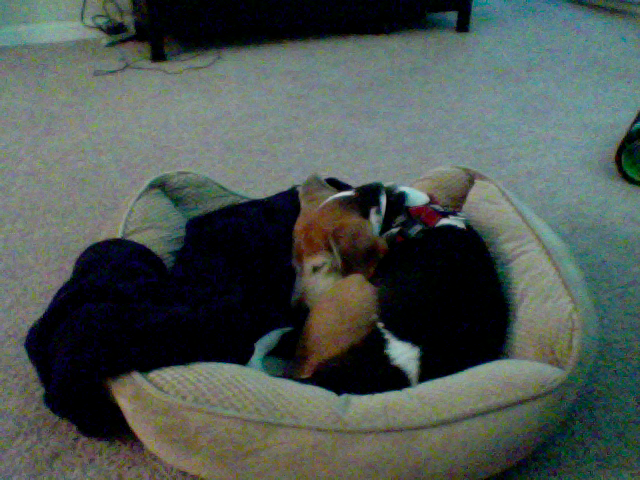
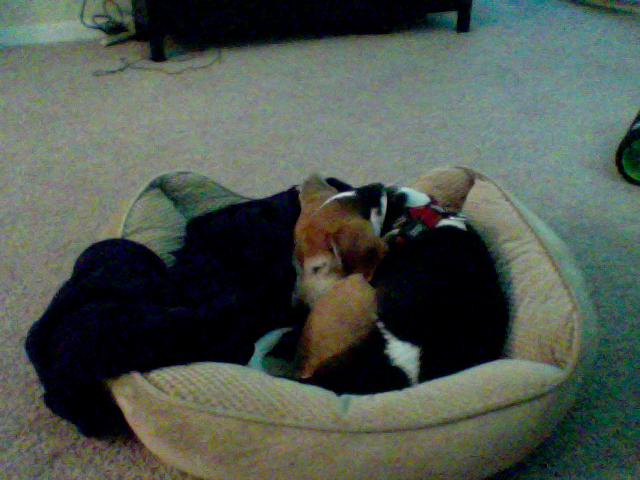
update at Month05Day13Time10:04

diff --git a/index.html b/index.html
@@ -39,8 +39,8 @@
       <!-- Example row of columns -->
       <div class="row">
         <div class="col-md-4">
-	<p>This picture was updated at Month05Day13Time10:03</p>
-		<img src="5_pic.png" />
+	<p>This picture was updated at Month05Day13Time10:04</p>
+		<img src="4_pic.png" />
         </div>
       </div>
 
